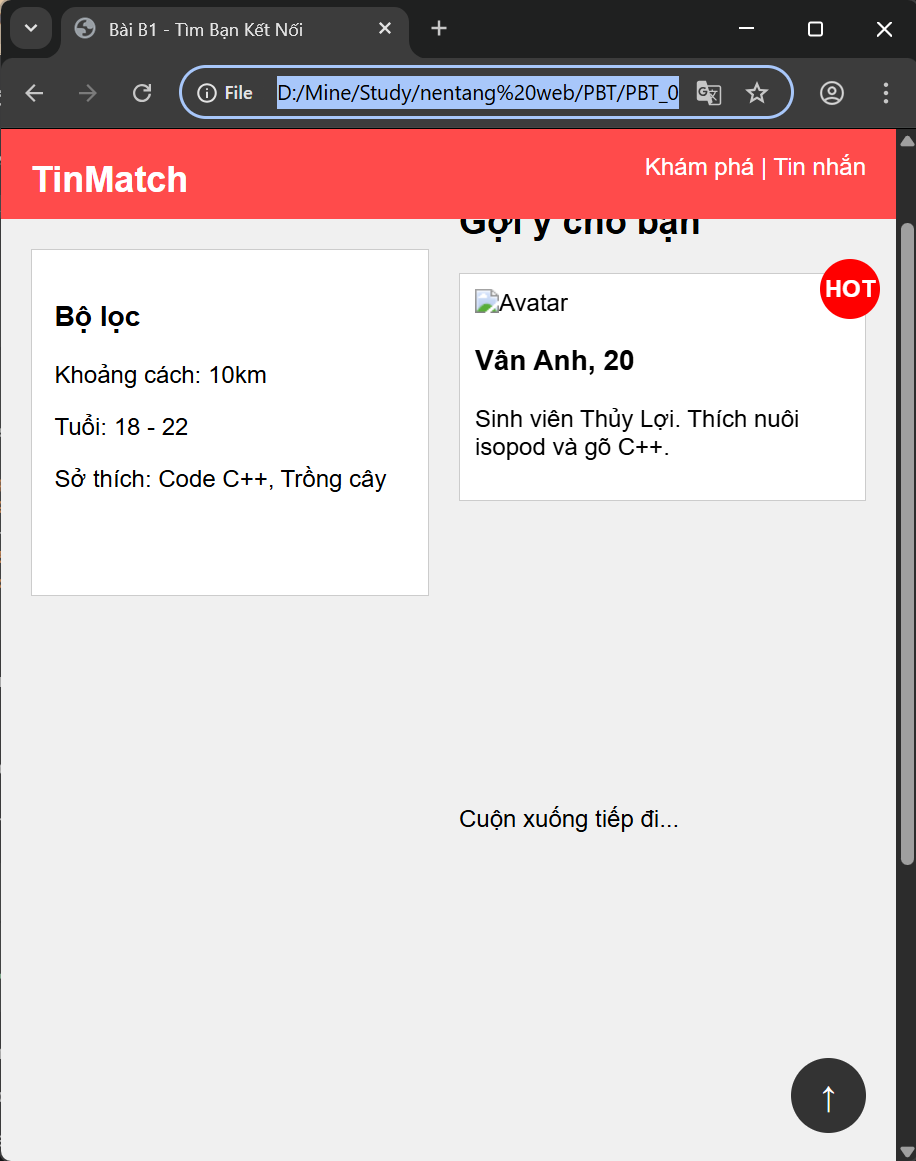
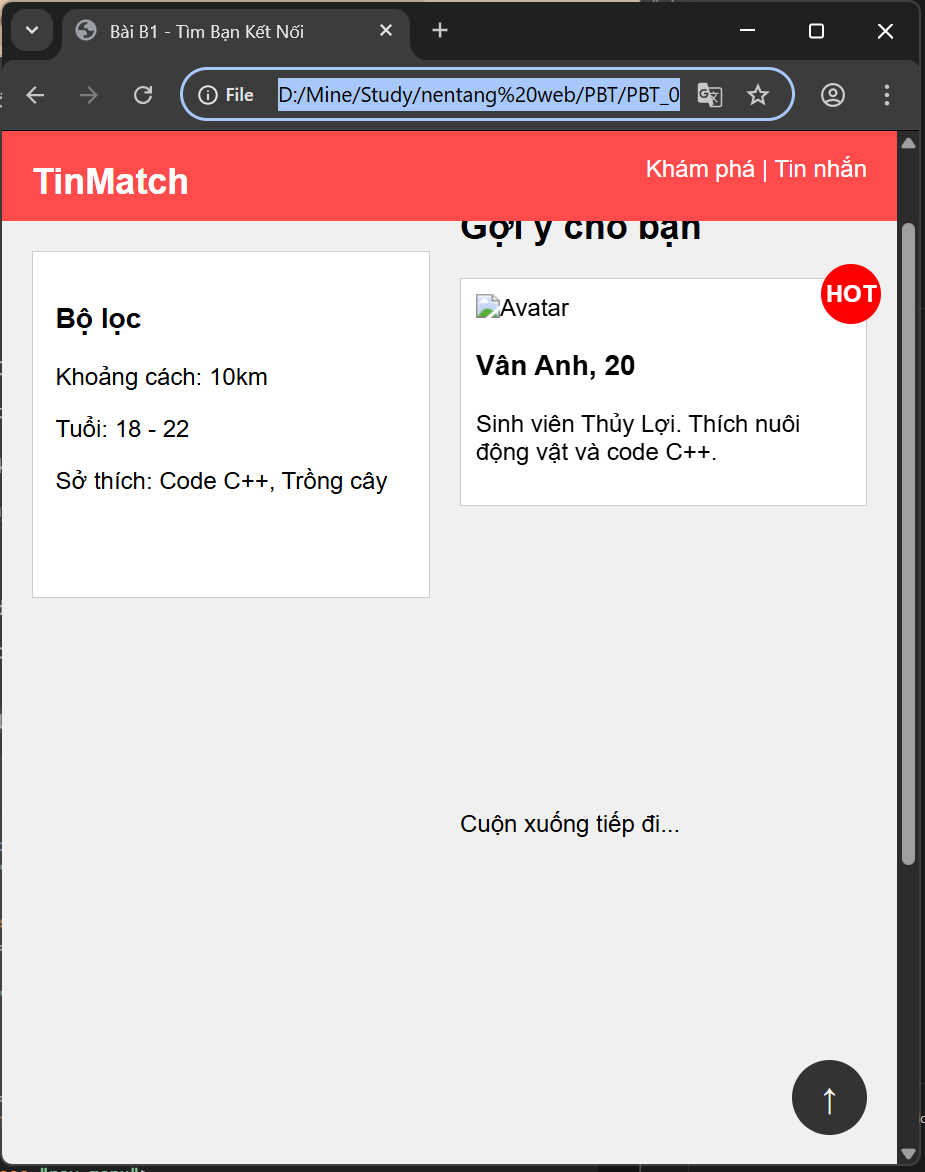
sua lai b1 va hoan thanh b2 ảnh screeshot

diff --git a/PBT/PBT_04/flexbox.css b/PBT/PBT_04/flexbox.css
@@ -1,0 +1,125 @@
+* { margin: 0; padding: 0; box-sizing: border-box; }
+body { font-family: Arial, sans-serif; background-color: #f5f7fa; }
+
+.navbar {
+    display: flex;
+    justify-content: space-between; 
+    align-items: center; 
+    background-color: white;
+    padding: 15px 30px;
+    box-shadow: 0 2px 10px rgba(0,0,0,0.1);
+}
+
+.logo {
+    font-size: 24px;
+    font-weight: bold;
+    color: #ff4b4b;
+}
+
+.nav-menu {
+    display: flex;
+    list-style: none;
+    gap: 40px; 
+}
+
+.nav-menu a {
+    text-decoration: none;
+    color: #555;
+    font-weight: bold;
+    transition: all 0.3s ease;
+}
+
+
+.nav-menu a:hover {
+    color: #ff4b4b;
+    text-decoration: underline;
+}
+
+.auth-buttons {
+    display: flex;
+    gap: 15px;
+}
+
+.auth-buttons a {
+    text-decoration: none;
+    padding: 10px 20px;
+    border-radius: 20px;
+    font-weight: bold;
+}
+
+.btn-login { color: #ff4b4b; border: 2px solid #ff4b4b; }
+.btn-register { background-color: #ff4b4b; color: white; }
+
+.container {
+    max-width: 1200px;
+    margin: 40px auto;
+    padding: 0 20px;
+}
+
+.section-title {
+    text-align: center;
+    color: #333;
+    margin-bottom: 30px;
+}
+
+.profiles-grid {
+    display: flex; 
+    flex-wrap: wrap; 
+    justify-content: space-between;
+}
+
+.card {
+ 
+    flex: 0 0 calc(25% - 20px); 
+    display: flex; 
+    flex-direction: column; 
+    
+    background: white;
+    border-radius: 12px;
+    overflow: hidden;
+    margin-bottom: 30px;
+    box-shadow: 0 4px 6px rgba(0,0,0,0.05);
+    transition: transform 0.3s ease, box-shadow 0.3s ease;
+}
+
+    transform: translateY(-5px);
+    box-shadow: 0 12px 20px rgba(0,0,0,0.15);
+}
+
+.card img {
+    width: 100%;
+    height: 200px;
+    object-fit: cover;
+}
+
+.card-info {
+    padding: 20px;
+}
+
+.card-info h3 {
+    color: #333;
+    margin-bottom: 10px;
+}
+
+.card-info p {
+    color: #666;
+    font-size: 14px;
+    line-height: 1.5;
+}
+
+.btn-match {
+    margin-top: auto; 
+    
+    background: linear-gradient(45deg, #fd297b, #ff655b);
+    color: white;
+    border: none;
+    padding: 15px;
+    font-size: 16px;
+    font-weight: bold;
+    cursor: pointer;
+    transition: background 0.3s;
+}
+
+.btn-match:hover {
+    background: linear-gradient(45deg, #e0246b, #e65c52);
+}

diff --git a/PBT/PBT_04/flexbox_layout.html b/PBT/PBT_04/flexbox_layout.html
@@ -1,0 +1,105 @@
+<!DOCTYPE html>
+<html lang="vi">
+<head>
+    <meta charset="UTF-8">
+    <meta name="viewport" content="width=device-width, initial-scale=1.0">
+    <title>Bài B2 - Flexbox TinMatch</title>
+    <link rel="stylesheet" href="flexbox.css">
+</head>
+<body>
+
+    <nav class="navbar">
+        <div class="logo">TinMatch</div>
+        
+        <ul class="nav-menu">
+            <li><a href="#">Khám phá</a></li>
+            <li><a href="#">Top Lượt thích</a></li>
+            <li><a href="#">Tin nhắn</a></li>
+        </ul>
+
+        <div class="auth-buttons">
+            <a href="#" class="btn-login">Đăng nhập</a>
+            <a href="#" class="btn-register">Tạo tài khoản</a>
+        </div>
+    </nav>
+
+    <main class="container">
+        <h2 class="section-title">Gợi ý tương hợp hôm nay</h2>
+        
+        <div class="profiles-grid">
+            <div class="card">
+                <img src="https://via.placeholder.com/200x150/ffb6c1/ffffff?text=Avatar" alt="Avatar">
+                <div class="card-info">
+                    <h3>Hà Giang, 20</h3>
+                    <p>Thích trồng cây ban công.</p>
+                </div>
+                <button class="btn-match">→</button>
+            </div>
+
+            <div class="card">
+                <img src="https://via.placeholder.com/200x150/add8e6/ffffff?text=Avatar" alt="Avatar">
+                <div class="card-info">
+                    <h3>Tuấn Anh, 21</h3>
+                    <p>Style streetwear, tóc buzz cut gọn gàng. Tìm partner đẩy tạ.</p>
+                </div>
+                <button class="btn-match">→</button>
+            </div>
+
+            <div class="card">
+                <img src="https://via.placeholder.com/200x150/98fb98/ffffff?text=Avatar" alt="Avatar">
+                <div class="card-info">
+                    <h3>Đường Tăng, 20</h3>
+                    <p> Biết chút ít về AI và làm TikTok.</p>
+                </div>
+                <button class="btn-match">→</button>
+            </div>
+
+            <div class="card">
+                <img src="https://via.placeholder.com/200x150/ffd700/ffffff?text=Avatar" alt="Avatar">
+                <div class="card-info">
+                    <h3>My, 20</h3>
+                    <p>Năng động, thích mày mò</p>
+                </div>
+                <button class="btn-match">→</button>
+            </div>
+
+            <div class="card">
+                <img src="https://via.placeholder.com/200x150/ffa07a/ffffff?text=Avatar" alt="Avatar">
+                <div class="card-info">
+                    <h3>Hoàng Nam, 22</h3>
+                    <p>Nghiện đồ công nghệ.</p>
+                </div>
+                <button class="btn-match">→</button>
+            </div>
+
+            <div class="card">
+                <img src="https://via.placeholder.com/200x150/20b2aa/ffffff?text=Avatar" alt="Avatar">
+                <div class="card-info">
+                    <h3>Linh Trang, 19</h3>
+                    <p>Tìm người xem phim chung.</p>
+                </div>
+                <button class="btn-match">→</button>
+            </div>
+
+            <div class="card">
+                <img src="https://via.placeholder.com/200x150/9370db/ffffff?text=Avatar" alt="Avatar">
+                <div class="card-info">
+                    <h3>Đức Phát, 23</h3>
+                    <p>Sinh viên nghỉ hưu sớm. Muốn làm content creator.</p>
+                </div>
+                <button class="btn-match">→</button>
+            </div>
+
+            <div class="card">
+                <img src="https://via.placeholder.com/200x150/ff69b4/ffffff?text=Avatar" alt="Avatar">
+                <div class="card-info">
+                    <h3>Thảo Nhi, 20</h3>
+                    <p>Thích lượn lờ dạo phố cuối tuần.</p>
+                </div>
+                <button class="btn-match">→</button>
+            </div>
+        </div>
+    </main>
+
+</body>
+</html>

diff --git a/PBT/PBT_04/positioning.html b/PBT/PBT_04/positioning.html
@@ -26,7 +26,7 @@
                 <div class="badge">HOT</div>
                 <img src="https://via.placeholder.com/250" alt="Avatar">
                 <h3>Vân Anh, 20</h3>
-                <p>Sinh viên Thủy Lợi. Thích nuôi isopod và gõ C++.</p>
+                <p>Sinh viên Thủy Lợi. Thích nuôi động vật và code C++.</p>
             </div>
 
             <br><br><br><br><br><br><br><br><br><br>

diff --git a/PBT/PBT_04/positioning.css b/PBT/PBT_04/positioning.css
@@ -1,4 +1,3 @@
-/* Đặt lại lề và nhường chỗ 80px ở đỉnh cho header */
 body {
     margin: 0;
     padding-top: 80px; 